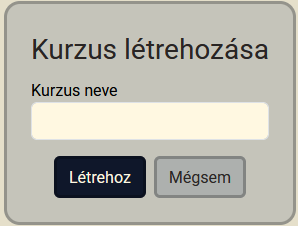
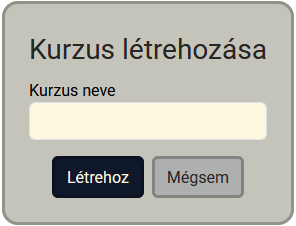
Improve index page

diff --git a/app/pages/index.vue b/app/pages/index.vue
@@ -70,19 +70,22 @@
 
         <!-- Explanation segment -->
         <div class="row mt-5">
-            <div v-for="item in explanationItems" class="card mb-3">
+            <div v-for="item, index in explanationItems" class="card border-0">
                 <div class="row g-0">
-                    <div class="col-md-8">
-                        <div class="card-body">
-                            <p class="card-text">
-                                {{item.text}}
-                            </p>
-                        </div> 
+                    <div class="col-md-4 d-flex justify-content-center justify-content-lg-end" v-if="index % 2 === 0">
+                        <img :src="item.path" class="img-fluid rounded-start" alt="Image">
                     </div>
-                    <div class="col-md-4">
-                        <img v-bind:src="item.path" class="img-fluid rounded-start" alt="Image">
+                    <div class="col-md-8 d-flex justify-content-center align-items-center">
+                        <span class="card-text">
+                            {{ item.text }}
+                        </span>
+                    </div>
+                    <div class="col-md-4 d-flex justify-content-center justify-content-lg-start" v-if="index % 2 !== 0">
+                        <img :src="item.path" class="img-fluid rounded-start" alt="Image">
                     </div>
                 </div>
+
+                <hr class="my-4">
             </div> 
         </div>
     </div>